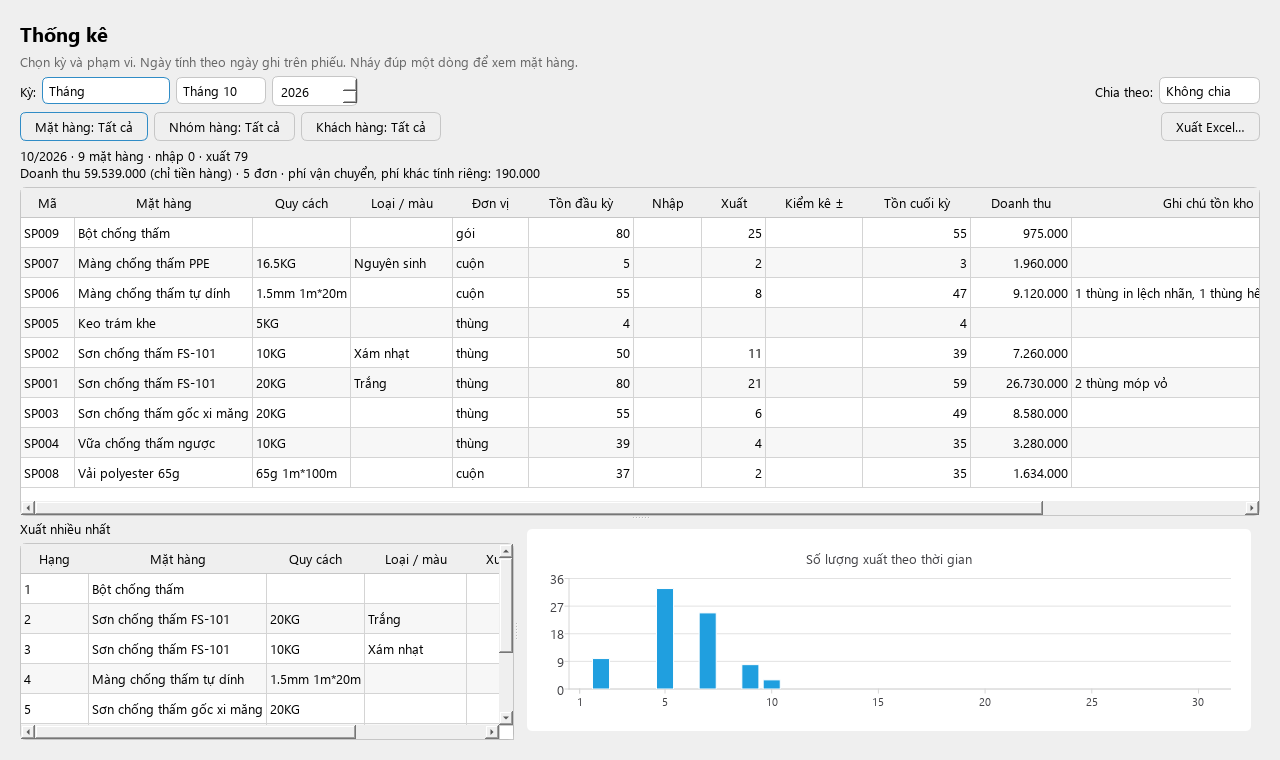
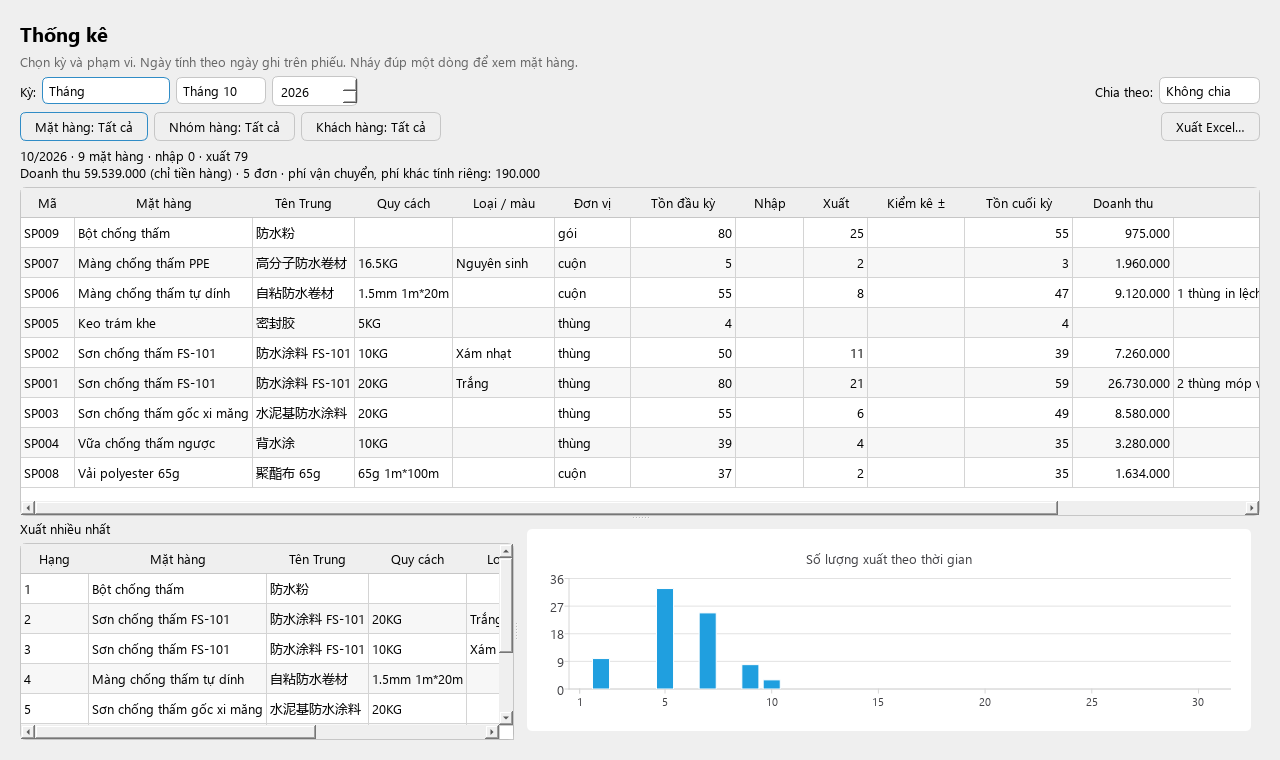
Add Tên Trung to Thống kê, order history, stock counts, and legacy goods-in preview
Several screens that list or confirm a single or multiple products did
not show the Chinese name, making similarly-named Vietnamese products
hard to tell apart: Thống kê's main table and "Xuất nhiều nhất", three
Excel sheets, the stock-count detail view, a customer's order tree, and
the legacy goods-in preview. Two stats queries were missing name_zh in
their SELECT. Also switched single-product confirmation/picker text from
catalog.label() to catalog.long_label() in Hàng về, Chuyển hàng, Xuất
dùng thử, the duplicate-product check in Cài đặt, and the product filter
in Đơn hàng/Thống kê.

diff --git a/src/dibekho/excel/report.py b/src/dibekho/excel/report.py
@@ -127,7 +127,7 @@ def _details(wb, conn, start, end, filters, info):
         "trial_out": t("move.trial_out"), "trial_reverse": t("move.trial_reverse"),
     }
     headers = [t("col.date"), t("col.kind"), t("col.doc_code"), t("col.customer"), t("col.place"), t("col.code"),
-               t("col.product"), t("col.spec"), t("col.variant"), t("col.unit"), t("col.qty_change"),
+               t("col.product"), t("col.name_zh"), t("col.spec"), t("col.variant"), t("col.unit"), t("col.qty_change"),
                t("col.unit_price"), t("col.amount"), t("col.note")]
     ws, r = _sheet(wb, t("sheet.details"), info, headers)
     for m in stats.detail_lines(conn, start, end, filters):
@@ -135,34 +135,34 @@ def _details(wb, conn, start, end, filters, info):
         if m["receipt_source"] == "return" and m["kind"] in ("receipt_in", "receipt_reverse"):
             kind += " · " + t("receipt_form.source_short_return")
         values = [date.fromisoformat(m["occurred_on"]), kind, m["code"], m["customer_name"], _place(m["location_id"]),
-                  m["product_code"], m["name_vi"], m["spec"], m["variant"], m["unit"], m["qty"], m["unit_price"],
-                  m["amount"], m["note"]]
-        _write(ws, r, values, money_cols=(12, 13), date_cols=(1,))
+                  m["product_code"], m["name_vi"], m["name_zh"], m["spec"], m["variant"], m["unit"], m["qty"],
+                  m["unit_price"], m["amount"], m["note"]]
+        _write(ws, r, values, money_cols=(13, 14), date_cols=(1,))
         r += 1
-    _widths(ws, [11, 16, 10, 30, 12, 9, 40, 16, 14, 8, 10, 12, 14, 30])
+    _widths(ws, [11, 16, 10, 30, 12, 9, 40, 20, 16, 14, 8, 10, 12, 14, 30])
 
 
 def _customers(wb, conn, start, end, filters, info):
-    headers = [t("col.customer"), t("col.code"), t("col.product"), t("col.spec"), t("col.variant"), t("col.unit"),
-               t("col.total_qty"), t("col.revenue"), t("col.times"), t("col.last_date")]
+    headers = [t("col.customer"), t("col.code"), t("col.product"), t("col.name_zh"), t("col.spec"), t("col.variant"),
+               t("col.unit"), t("col.total_qty"), t("col.revenue"), t("col.times"), t("col.last_date")]
     ws, r = _sheet(wb, t("sheet.customers"), info, headers)
     for row in stats.customer_product(conn, start, end, filters):
-        values = [row["customer_name"], row["code"], row["name_vi"], row["spec"], row["variant"], row["unit"],
-                  row["total_qty"], row["revenue"], row["times"], date.fromisoformat(row["last_date"])]
-        _write(ws, r, values, money_cols=(8,), date_cols=(10,))
+        values = [row["customer_name"], row["code"], row["name_vi"], row["name_zh"], row["spec"], row["variant"],
+                  row["unit"], row["total_qty"], row["revenue"], row["times"], date.fromisoformat(row["last_date"])]
+        _write(ws, r, values, money_cols=(9,), date_cols=(11,))
         r += 1
-    _widths(ws, [32, 9, 40, 16, 14, 8, 12, 14, 10, 12])
+    _widths(ws, [32, 9, 40, 20, 16, 14, 8, 12, 14, 10, 12])
 
 
 def _top(wb, conn, start, end, filters, info):
-    headers = [t("col.rank"), t("col.code"), t("col.product"), t("col.spec"), t("col.variant"), t("col.unit"),
-               t("col.out"), t("col.revenue")]
+    headers = [t("col.rank"), t("col.code"), t("col.product"), t("col.name_zh"), t("col.spec"), t("col.variant"),
+               t("col.unit"), t("col.out"), t("col.revenue")]
     ws, r = _sheet(wb, t("sheet.top"), info, headers)
     for i, row in enumerate(stats.top_out(conn, start, end, filters, limit=50), start=1):
-        _write(ws, r, [i, row.code, row.name_vi, row.spec, row.variant, row.unit, row.qty_out, row.revenue],
-               money_cols=(8,))
+        _write(ws, r, [i, row.code, row.name_vi, row.name_zh, row.spec, row.variant, row.unit, row.qty_out,
+                       row.revenue], money_cols=(9,))
         r += 1
-    _widths(ws, [6, 9, 45, 16, 14, 8, 12, 14])
+    _widths(ws, [6, 9, 45, 20, 16, 14, 8, 12, 14])
 
 
 # ---- one customer ---------------------------------------------------------------------------------------------

diff --git a/src/dibekho/ui/details.py b/src/dibekho/ui/details.py
@@ -149,9 +149,9 @@ class DocumentDialog(_Base):
 
         if kind == "stock_count":
             diffs = queries.count_differences(ctx.conn, doc_id)
-            headers = [t("col.code"), t("col.product"), t("col.spec"), t("col.variant"), t("col.place"),
-                       t("col.counted"), t("col.difference")]
-            rows = [[ln["code"], ln["name_vi"], ln["spec"], ln["variant"],
+            headers = [t("col.code"), t("col.product"), t("col.name_zh"), t("col.spec"), t("col.variant"),
+                       t("col.place"), t("col.counted"), t("col.difference")]
+            rows = [[ln["code"], ln["name_vi"], ln["name_zh"], ln["spec"], ln["variant"],
                      location_name(ln["location_id"]) if ln["location_id"] else t("loc.total"),
                      num_item(ln["qty"]), num_item(diffs.get((ln["product_id"], ln["location_id"] or MAIN), 0))]
                     for ln in lines]
@@ -329,8 +329,8 @@ class CustomerDialog(_Base):
         box2 = QGroupBox(t("cust.orders_title"))
         l2 = QVBoxLayout(box2)
         self.orders = QTreeWidget()
-        self.orders.setHeaderLabels([t("col.order_or_product"), t("col.spec"), t("col.qty"), t("col.unit"),
-                                     t("col.unit_price"), t("col.amount"), t("col.note")])
+        self.orders.setHeaderLabels([t("col.order_or_product"), t("col.name_zh"), t("col.spec"), t("col.qty"),
+                                     t("col.unit"), t("col.unit_price"), t("col.amount"), t("col.note")])
         self.orders.setAlternatingRowColors(True)
         self.orders.itemDoubleClicked.connect(self.open_order)
         l2.addWidget(self.orders)
@@ -370,28 +370,27 @@ class CustomerDialog(_Base):
         right = Qt.AlignRight | Qt.AlignVCenter
         self.orders.clear()
         for d in docs:
-            head = QTreeWidgetItem([t("cust.order_head", date=fmt_date(d["doc_date"]), code=d["code"]), "",
+            head = QTreeWidgetItem([t("cust.order_head", date=fmt_date(d["doc_date"]), code=d["code"]), "", "",
                                     t("cust.order_lines", count=d["line_count"]), "", "",
                                     fmt_money(d["goods_amount"]), ""])  # goods only: fees are apart
             head.setData(0, Qt.UserRole, d["id"])
             font = head.font(0)
             font.setBold(True)
-            for c in (0, 5):
+            for c in (0, 6):
                 head.setFont(c, font)
-            head.setTextAlignment(5, right)
+            head.setTextAlignment(6, right)
             for ln in lines.get(d["id"], []):
                 name = " · ".join(x for x in (ln["name_vi"], ln["variant"]) if x)
-                child = QTreeWidgetItem([name, ln["spec"], fmt_qty(ln["qty"]), ln["unit"],
+                child = QTreeWidgetItem([name, ln["name_zh"], ln["spec"], fmt_qty(ln["qty"]), ln["unit"],
                                          fmt_money(ln["unit_price"]), fmt_money(ln["amount"]), ln["note"]])
                 child.setData(0, Qt.UserRole, d["id"])
-                child.setToolTip(0, ln["name_zh"])
-                for c in (2, 4, 5):
+                for c in (3, 5, 6):
                     child.setTextAlignment(c, right)
                 head.addChild(child)
             if d["fee_amount"]:
-                fee = QTreeWidgetItem([t("cust.fees"), "", "", "", "", fmt_money(d["fee_amount"]), ""])
+                fee = QTreeWidgetItem([t("cust.fees"), "", "", "", "", "", fmt_money(d["fee_amount"]), ""])
                 fee.setData(0, Qt.UserRole, d["id"])
-                fee.setTextAlignment(5, right)
+                fee.setTextAlignment(6, right)
                 head.addChild(fee)
             self.orders.addTopLevelItem(head)
         self.orders.expandAll()

diff --git a/src/dibekho/ui/stats_page.py b/src/dibekho/ui/stats_page.py
@@ -209,8 +209,8 @@ class StatsPage(Page):
         top_lay = QVBoxLayout(top_box)
         top_lay.setContentsMargins(0, 0, 0, 0)
         top_lay.addWidget(QLabel(t("stats.top_title")))
-        self.top = make_table([t("col.rank"), t("col.product"), t("col.spec"), t("col.variant"), t("col.out"),
-                               t("col.unit"), t("col.revenue")], stretch=1)
+        self.top = make_table([t("col.rank"), t("col.product"), t("col.name_zh"), t("col.spec"), t("col.variant"),
+                               t("col.out"), t("col.unit"), t("col.revenue")], stretch=1)
         top_lay.addWidget(self.top)
         bottom.addWidget(top_box)
         self.chart = QChartView()
@@ -246,7 +246,7 @@ class StatsPage(Page):
         return w
 
     def _product_items(self):
-        return [(catalog.label(p), p["id"]) for p in catalog.products(self.ctx.conn, True)]
+        return [(catalog.long_label(p), p["id"]) for p in catalog.products(self.ctx.conn, True)]
 
     def _category_items(self):
         return [(c, c) for c in catalog.categories(self.ctx.conn)]
@@ -300,7 +300,7 @@ class StatsPage(Page):
         customer_filtered = bool(f.customer_ids)
         labels = [b.label for b in stats.buckets(start, end, by)] if by != "none" else []
 
-        headers = [t("col.code"), t("col.product"), t("col.spec"), t("col.variant"), t("col.unit")]
+        headers = [t("col.code"), t("col.product"), t("col.name_zh"), t("col.spec"), t("col.variant"), t("col.unit")]
         if not customer_filtered:
             headers.append(t("col.opening"))
         headers += [t("col.in"), t("col.out"), t("col.adjust")]
@@ -314,7 +314,7 @@ class StatsPage(Page):
 
         table_rows, colors = [], []
         for r in rows:
-            cells = [r.code, r.name_vi, r.spec, r.variant, r.unit]
+            cells = [r.code, r.name_vi, r.name_zh, r.spec, r.variant, r.unit]
             if not customer_filtered:
                 cells.append(num_item(r.opening))
             cells += [num_item(r.qty_in or None), num_item(r.qty_out or None), num_item(r.adjust or None)]
@@ -337,7 +337,7 @@ class StatsPage(Page):
         self.caption.setText(caption)
 
         top = sorted((r for r in rows if r.qty_out > 0), key=lambda r: r.qty_out, reverse=True)[:10]
-        fill_table(self.top, [[i, r.name_vi, r.spec, r.variant, num_item(r.qty_out), r.unit,
+        fill_table(self.top, [[i, r.name_vi, r.name_zh, r.spec, r.variant, num_item(r.qty_out), r.unit,
                                money_item(r.revenue) if r.revenue is not None else ""]
                               for i, r in enumerate(top, 1)], ids=None)
         self._draw_chart(start, end, f)

diff --git a/src/dibekho/ui/receipt_form.py b/src/dibekho/ui/receipt_form.py
@@ -293,7 +293,7 @@ class ReceiptForm(QDialog):
         if row.new:
             return "★ " + row.new.label()
         if row.product_id and row.product_id in self.products:
-            return catalog.label(self.products[row.product_id])
+            return catalog.long_label(self.products[row.product_id])
         return ""
 
     def _show_row(self, row: _Row):
@@ -395,13 +395,13 @@ class ReceiptForm(QDialog):
             texts = []
             for key, values in found:
                 if "id" in values:
-                    values = {"product": catalog.label(self.products[values["id"]])}
+                    values = {"product": catalog.long_label(self.products[values["id"]])}
                 texts.append("• " + t(key, **values))
             error(self, t("receipt_form.cannot_save") + "\n\n" + "\n".join(dict.fromkeys(texts)))
             return
         for ln, existing in receipts.same_as_existing(self.ctx.conn, data):
             if ask(self, t("receipt_form.already_in_catalog", new=ln.new.label(), code=existing["code"],
-                           product=catalog.label(existing))):
+                           product=catalog.long_label(existing))):
                 row = next(r for r in self.rows if r.new is ln.new)
                 self._set_product(row, existing["id"])
                 self.products.setdefault(existing["id"], existing)
@@ -440,7 +440,7 @@ class ReceiptForm(QDialog):
         who += "\n" + t("loc.put_in") + ": " + location_name(data.location_id)
         lines = []
         for ln in data.filled():
-            name = ("★ " + ln.new.label()) if ln.new else catalog.label(self.products[ln.product_id])
+            name = ("★ " + ln.new.label()) if ln.new else catalog.long_label(self.products[ln.product_id])
             unit = ln.new.unit if ln.new else self.products[ln.product_id]["unit"]
             lines.append(f"• {name}: {fmt_qty(ln.qty)} {unit}".rstrip())
         skipped = sum(1 for r in self.rows if (r.product_id or r.new) and r.qty.value() <= 0)

diff --git a/src/dibekho/core/stats.py b/src/dibekho/core/stats.py
@@ -256,7 +256,7 @@ def customer_product(conn, start: date, end: date, filters: Filters | None = Non
     csql, cargs = f.customer_sql()
     return conn.execute(
         f"""
-        SELECT c.name AS customer_name, p.code, p.name_vi, p.spec, p.variant, p.unit,
+        SELECT c.name AS customer_name, p.code, p.name_vi, p.name_zh, p.spec, p.variant, p.unit,
                SUM(l.qty) AS total_qty, COUNT(DISTINCT d.id) AS times, MAX(d.doc_date) AS last_date,
                SUM(l.amount) AS revenue
         FROM document_lines l
@@ -287,7 +287,7 @@ def detail_lines(conn, start: date, end: date, filters: Filters | None = None):
              ln AS (SELECT l.*, ROW_NUMBER() OVER (PARTITION BY l.document_id, l.product_id ORDER BY l.id) AS n
                     FROM document_lines l)
         SELECT m.occurred_on, m.kind, m.qty, m.location_id, d.code, d.kind AS doc_kind, d.receipt_source,
-               c.name AS customer_name, p.code AS product_code, p.name_vi, p.spec, p.variant, p.unit,
+               c.name AS customer_name, p.code AS product_code, p.name_vi, p.name_zh, p.spec, p.variant, p.unit,
                COALESCE(x.note, (SELECT note FROM document_lines l WHERE l.document_id = d.id
                                  AND l.product_id = p.id LIMIT 1)) AS note,
                x.unit_price, x.amount

diff --git a/src/dibekho/ui/receipt_page.py b/src/dibekho/ui/receipt_page.py
@@ -45,9 +45,9 @@ def review_receipt(ctx, parent, item) -> bool:
     lay.addWidget(QLabel(t("inbox.receipt_preview", date=fmt_date(item.receipt.doc_date))))
     if item.receipt.note:
         lay.addWidget(QLabel(f"{t('col.note')}: {item.receipt.note}"))
-    table = make_table([t("col.code"), t("col.product"), t("col.spec"), t("col.variant"), t("col.qty"),
-                        t("col.unit")])
-    fill_table(table, [[p["code"], p["name_vi"], p["spec"], p["variant"], num_item(ln.qty), p["unit"]]
+    table = make_table([t("col.code"), t("col.product"), t("col.name_zh"), t("col.spec"), t("col.variant"),
+                        t("col.qty"), t("col.unit")])
+    fill_table(table, [[p["code"], p["name_vi"], p["name_zh"], p["spec"], p["variant"], num_item(ln.qty), p["unit"]]
                        for ln, p in item.resolved])
     lay.addWidget(table)
     for w in item.receipt.warnings:

diff --git a/tests/test_prices.py b/tests/test_prices.py
@@ -202,9 +202,9 @@ def test_customer_window_lists_orders_with_their_prices(qtbot_free_app, ws):
     tree = dlg.orders
     assert tree.topLevelItemCount() == 2
     newest = tree.topLevelItem(0)
-    assert "2" in newest.text(0) and newest.text(5) == "2.250.000" and newest.child(0).text(4) == "750.000"
+    assert "2" in newest.text(0) and newest.text(6) == "2.250.000" and newest.child(0).text(5) == "750.000"
     oldest = tree.topLevelItem(1)
-    assert oldest.childCount() == 3 and oldest.child(2).text(5) == "190.000"  # 2 lines, then the shipping fee
+    assert oldest.childCount() == 3 and oldest.child(2).text(6) == "190.000"  # 2 lines, then the shipping fee
     dlg.all_time.setChecked(False)
     dlg.date_from.setDate(QDate(2026, 10, 1))
     dlg.date_to.setDate(QDate(2026, 10, 31))

diff --git a/src/dibekho/ui/settings_page.py b/src/dibekho/ui/settings_page.py
@@ -112,7 +112,7 @@ class ProductEditor(QDialog):
             dups = catalog.find_possible_duplicates(self.ctx.conn, fields["name_vi"], fields["name_zh"],
                                                      fields["spec"], fields["variant"])
             if dups and ask(self, t("settings.product_duplicate", code=dups[0]["code"],
-                                    product=catalog.label(dups[0]))):
+                                    product=catalog.long_label(dups[0]))):
                 self.accept()
                 ProductEditor(self.ctx, dups[0], self.parent()).exec()
                 return

diff --git a/src/dibekho/ui/orders_page.py b/src/dibekho/ui/orders_page.py
@@ -137,7 +137,7 @@ class OrdersPage(Page):
         conn = self.ctx.conn
         for combo, items in (
             (self.customer, [(c["name"], c["id"]) for c in queries.customers(conn)]),
-            (self.product, [(catalog.label(p), p["id"]) for p in catalog.products(conn, True)]),
+            (self.product, [(catalog.long_label(p), p["id"]) for p in catalog.products(conn, True)]),
         ):
             current = combo.currentData()
             combo.blockSignals(True)
